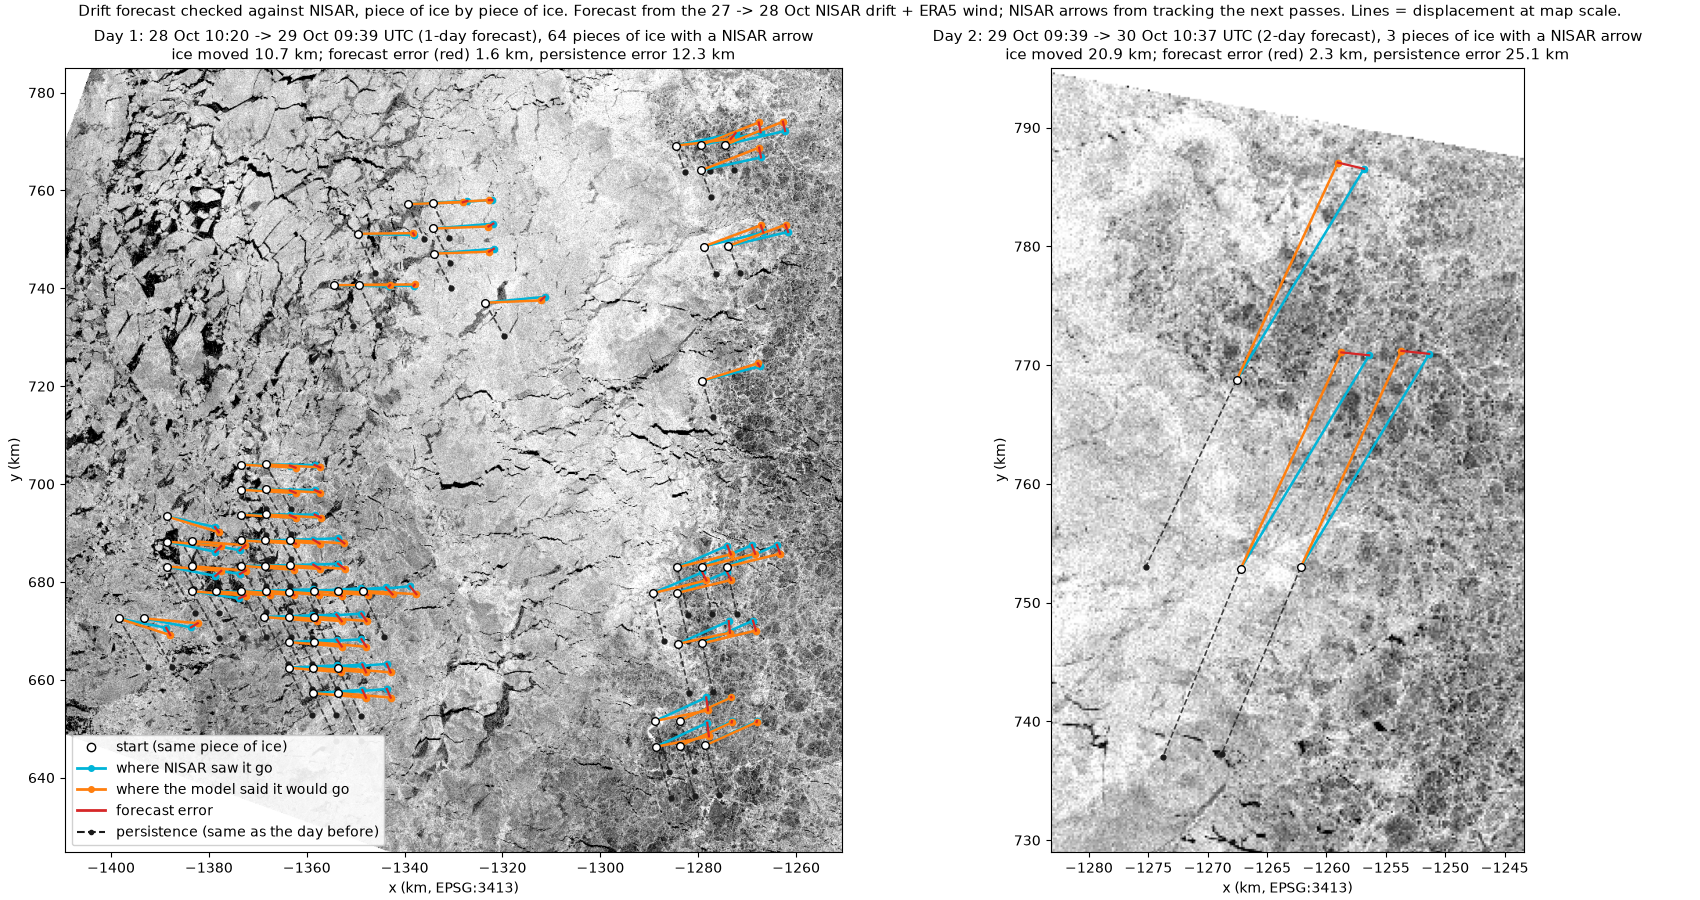
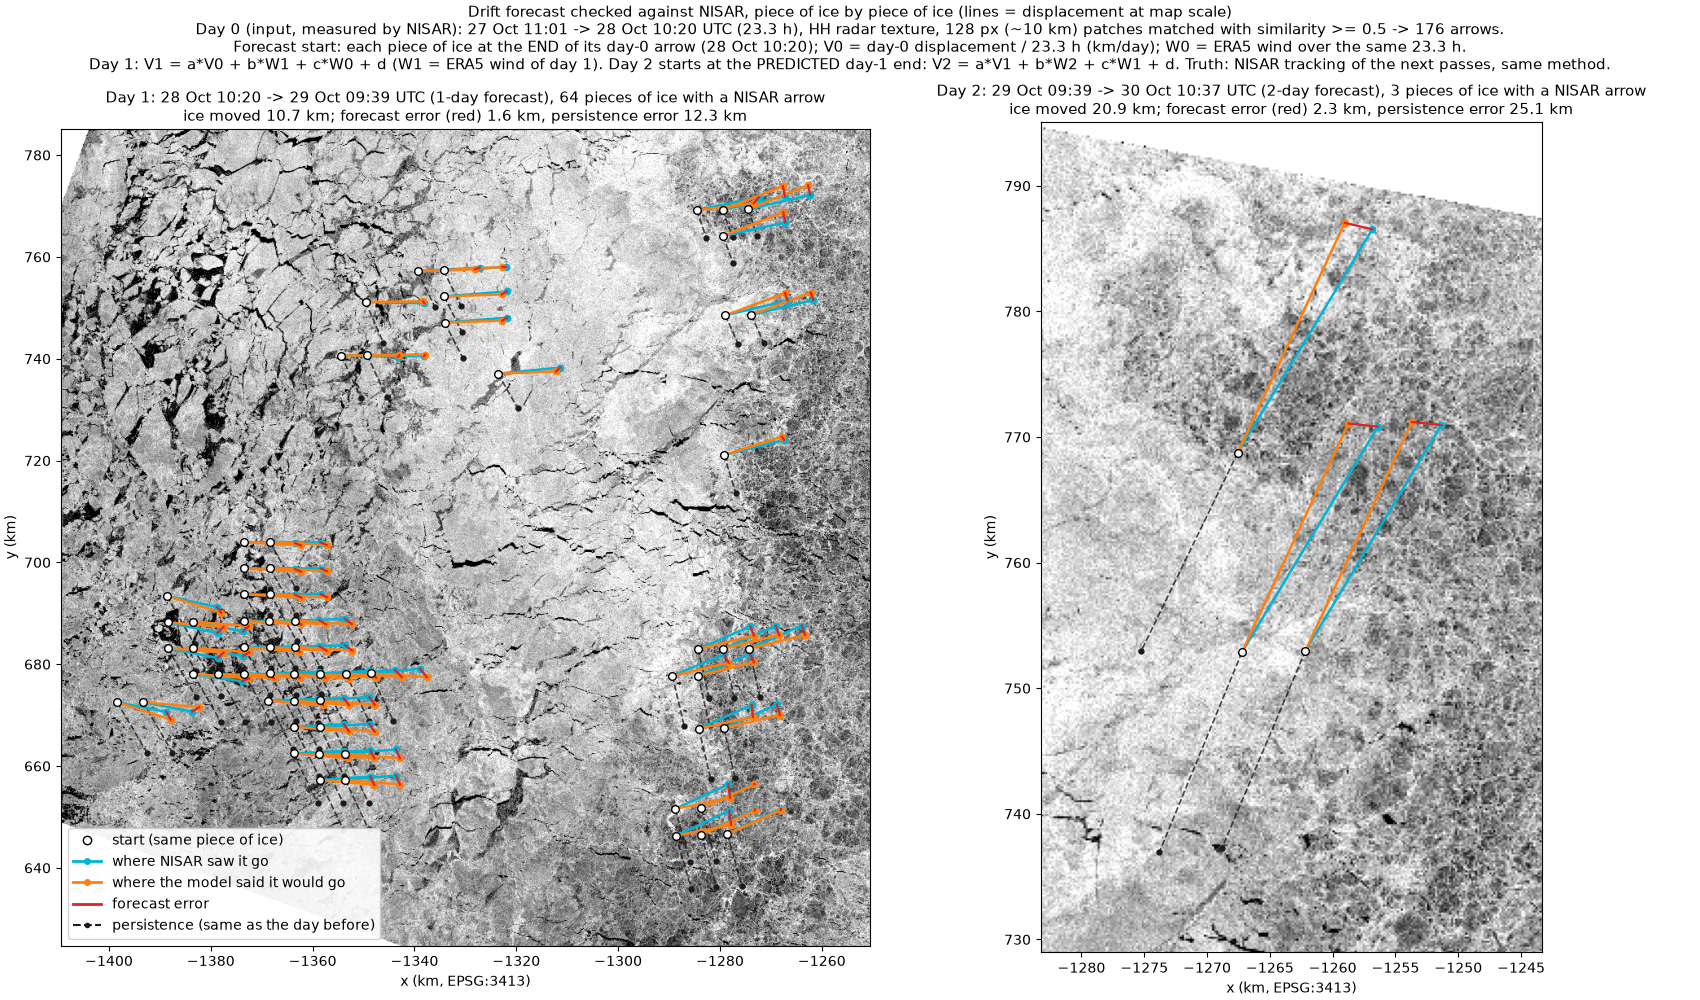
Check figure: explain how day 0 initialises the forecast

diff --git a/scripts/forecast_chukchi.py b/scripts/forecast_chukchi.py
@@ -219,7 +219,7 @@ def main():
     OUT_JSON.parent.mkdir(exist_ok=True)
     OUT_JSON.write_text(json.dumps(result, indent=2))
     figure_short(day1, day2, short["full model"], result)
-    figure_check(day1, day2, short, result)
+    figure_check(day0, day1, day2, short, result)
     figure_week(day0, pos, osi, week)
 
 
@@ -270,7 +270,7 @@ def figure_short(day1, day2, steps, result):
     plt.savefig(FIGS / "chukchi_drift_forecast.png", dpi=100); plt.close()
 
 
-def figure_check(day1, day2, short, result):
+def figure_check(day0, day1, day2, short, result):
     """Forecast vs NISAR, piece by piece: for every forecast arrow with a NISAR arrow starting within MATCH_KM,
     the start, the forecast end, the NISAR end and the persistence end; red line = forecast error."""
     import matplotlib
@@ -278,7 +278,7 @@ def figure_check(day1, day2, short, result):
     import matplotlib.pyplot as plt
     from matplotlib.lines import Line2D
 
-    fig, axes = plt.subplots(1, 2, figsize=(17, 9), layout="constrained")
+    fig, axes = plt.subplots(1, 2, figsize=(17, 10), layout="constrained")
     for ax, k, truth, label in ((axes[0], 0, day1, "Day 1"), (axes[1], 1, day2, "Day 2")):
         model, pers = short["full model"][k], short["persistence"][k]
         idx = match(model["x"], model["y"], truth)
@@ -316,9 +316,15 @@ def figure_check(day1, day2, short, result):
                             Line2D([], [], color="#d62728", lw=2, label="forecast error"),
                             Line2D([], [], color=PERS_DARK, lw=1.5, ls="--", marker="o", ms=3, label="persistence (same as the day before)")],
                    loc="lower left", framealpha=0.9)
-    fig.suptitle("Drift forecast checked against NISAR, piece of ice by piece of ice. Forecast from the 27 -> 28 Oct NISAR "
-                 "drift + ERA5 wind; NISAR arrows from tracking the next passes. Lines = displacement at map scale.",
-                 fontsize=11)
+    fig.suptitle(
+        "Drift forecast checked against NISAR, piece of ice by piece of ice (lines = displacement at map scale)\n"
+        f"Day 0 (input, measured by NISAR): {day0['t0']:%d %b %H:%M} -> {day0['t1']:%d %b %H:%M} UTC ({day0['hours']:.1f} h), HH radar "
+        f"texture, 128 px (~10 km) patches matched with similarity >= {TRACK['min_similarity']} -> {len(day0['x'])} arrows.\n"
+        f"Forecast start: each piece of ice at the END of its day-0 arrow ({day0['t1']:%d %b %H:%M}); V0 = day-0 displacement / "
+        f"{day0['hours']:.1f} h (km/day); W0 = ERA5 wind over the same {day0['hours']:.1f} h.\n"
+        "Day 1: V1 = a*V0 + b*W1 + c*W0 + d (W1 = ERA5 wind of day 1). Day 2 starts at the PREDICTED day-1 end: "
+        "V2 = a*V1 + b*W2 + c*W1 + d. Truth: NISAR tracking of the next passes, same method.",
+        fontsize=10.5)
     plt.savefig(FIGS / "chukchi_drift_forecast_check.png", dpi=100); plt.close()
 
 
